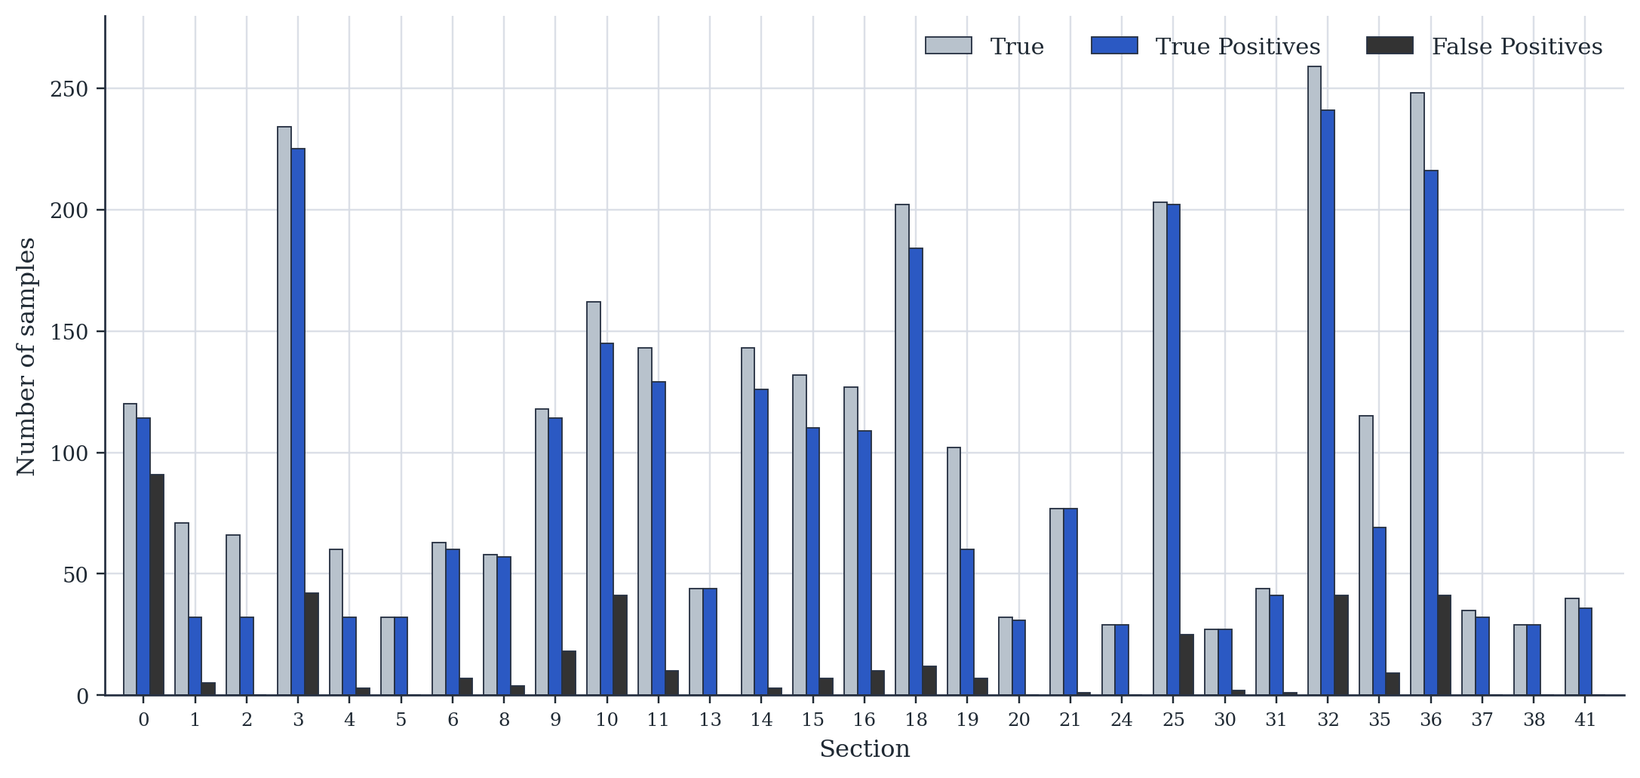
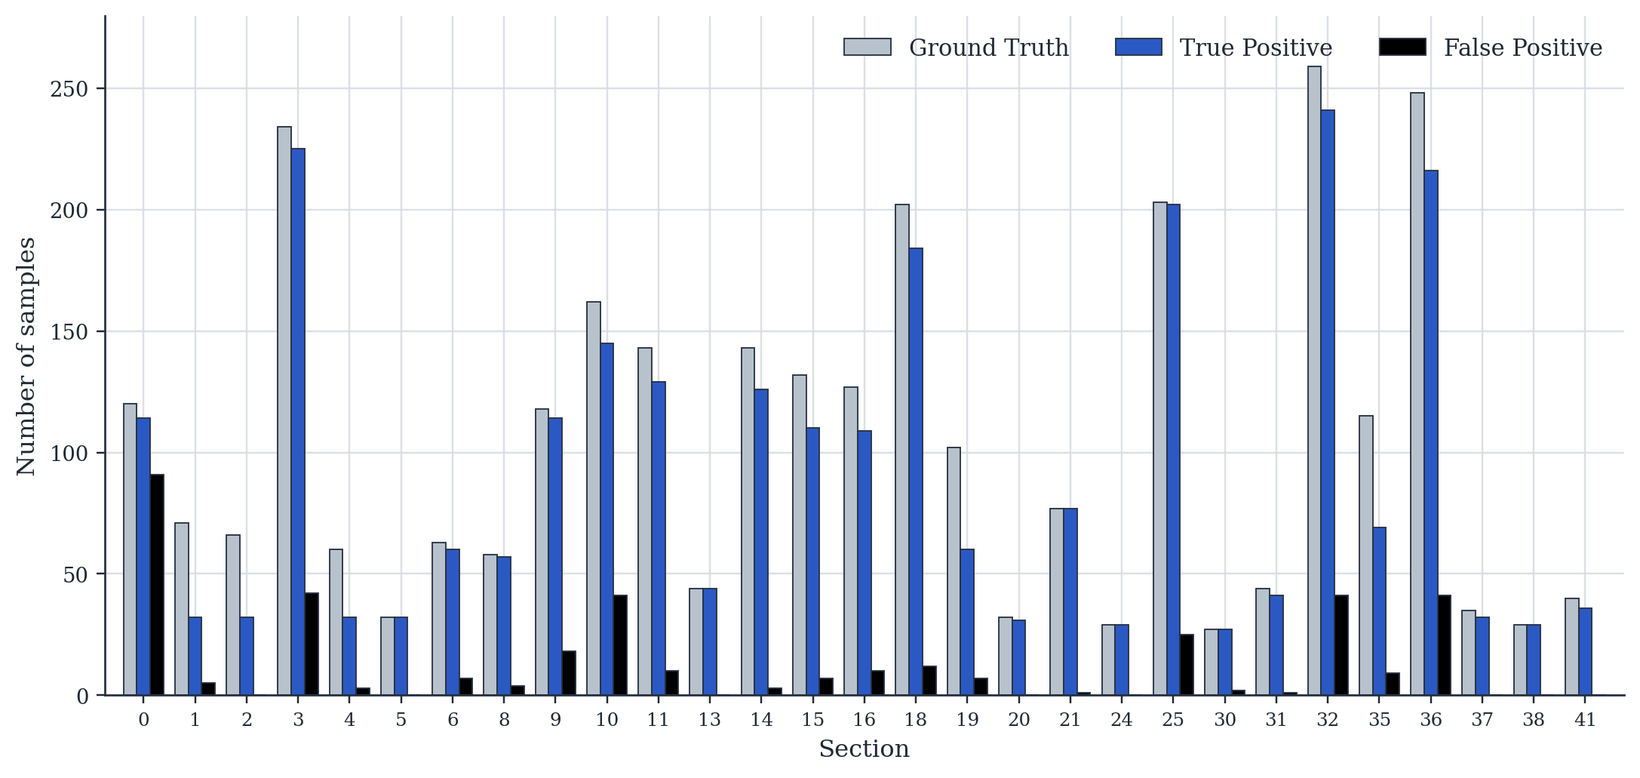
update for round 3

diff --git a/article/main.tex b/article/main.tex
@@ -95,10 +95,10 @@
 
 \Author{Ivan Plokhikh $^{1,2}$*\orcidA{},
 Dmitriy Pushkarev $^{2}$*,
-Oleg Gobyzov $^{1,3}$*\orcidC{},
+Oleg Gobyzov $^{1,3}$\orcidC{},
 Sergey Filimonov $^{1,3}$,
 Alexander Dekterev $^{1,3}$,
-Rustam Mullyadzhanov $^{2,3}$*\orcidB{} and
+Rustam Mullyadzhanov $^{2,3}$\orcidB{} and
 Sergey Alekseenko $^{1,3}$}
 
 %\longauthorlist{yes}
@@ -655,6 +655,27 @@ The dataset generation process produced the following samples for each temperatu
 When preparing the data for training, the full graph was split into supply and return subnets, resulting in 85,050 total samples: 42,075 with a defect in the considered subnet (49.5\%) and 42,975 without a defect (50.5\%) - the latter includes 42,075 samples from the opposite subnet plus 450 defect-free samples from each subnet. This balanced distribution between defective and non-defective samples was intentionally designed to ensure robust model training.
 % }
 
+
+\begin{table}[H]
+\centering
+\begin{tabularx}{0.8\textwidth}{lccc}
+\toprule
+\textbf{Outdoor temp.} & \textbf{Subnet} & \textbf{Max / Min / $\Delta$ (°C)} \\
+\midrule
+\multirow{2}{*}{-34°C} & Supply & 177.30 / 170.36 / 6.94 \\
+                       & Return & 129.07 / 125.93 / 3.14 \\
+\midrule
+\multirow{2}{*}{+10°C} & Supply & 64.45 / 63.94 / 0.51 \\
+                       & Return & 57.46 / 56.90 / 0.56 \\
+\bottomrule
+\end{tabularx}
+\caption{Supply and return water temperatures at the heat source for the minimum and maximum outdoor temperature scenarios.}\label{tab:temperatures}
+\end{table}
+
+\revision{
+The corresponding supply and return water temperatures at the heat source for the extreme scenarios are summarized in Table~\ref{tab:temperatures}. The temperature difference across the network is noticeably larger in the supply subnet than in the return subnet at lower outdoor temperatures, whereas at higher temperatures the thermal losses are less pronounced.
+}
+
 \subsection{Stage 2: Application to DHN Fault Localization}\label{stage2}
 
 % In Stage 1, to identify an architecture capable of effectively capturing data propagating from neighboring nodes, we conducted a series of experiments on synthetic data, framing the problem as edge-level regression. Having understood what a suitable GNN should look like, we moved on to fault localization in DHNs. Since the real-world graph data is extremely sparse, we reformulated the problem as multi-class classification. For this purpose, we modified the network by replacing the final regression layer with a classification head and adding a global pooling.
@@ -693,7 +714,7 @@ represented as a graph with 187 nodes (junctions, consumers, source/sink) and
 		\centering
 		\includegraphics[width=16.0 cm]{Figures/dhn_example.png}
 	\end{adjustwidth}
-	\caption{An illustration of the district heating network.\label{fig:dhn}}
+	\caption{An illustration of the district heating network. The scale bar corresponds to 50 m.\label{fig:dhn}}
 \end{figure}
 
 The following node features were used for model training:
@@ -918,9 +939,9 @@ horizontal line at distance 0 with value 1.0.
 	\caption{Distance confusion matrices: (\textbf{a}) Supply subnet. (\textbf{b}) Return subnet. \label{fig:dist_cm}}
 \end{figure}
 
-\revision{
-For segment 41, the value 1.0 at nonzero distance means that all 43 test samples belonging to this segment were assigned to another section. This makes segment 41 the main outlier in the topological-distance analysis. Segment 41 consists of a single pipe connecting a consumer to a branching node, resulting in fewer training examples compared to segments containing multiple pipes (N pipes x 225 defective samples per pipe). Since figure 5 aggregates errors only by topological distance, it indicates the local nature of the misclassifications but does not identify which classes are confused with each other. The corresponding ambiguity is therefore analyzed below using the class-distribution plots and confusion matrices.
-}
+% \revision{
+For segment 41, the value 1.0 at nonzero distance means that all 43 test samples belonging to this segment were assigned to another section. This makes segment 41 the main outlier in the topological-distance analysis. Segment 41 consists of a single pipe connecting a consumer to a branching node, resulting in fewer training examples compared to segments containing multiple pipes ($N$ pipes $\times$ 225 defective samples per pipe). Since Figure~\ref{fig:dist_cm} aggregates errors only by topological distance, it indicates the local nature of the misclassifications but does not identify which classes are confused with each other. The corresponding ambiguity is therefore analyzed below using the class-distribution plots and confusion matrices.
+% }
 
 Notably, the distribution of errors in Figure \ref{fig:dist_cm} demonstrates a
 strong bias towards local mistakes. We observe that the error mass is heavily
@@ -984,9 +1005,9 @@ To complement the hop-based analysis, we also evaluated the
 \end{figure}
 
 % \revision{
-The class-distribution panels in Figures~\ref{fig:supply_distribution_confusion} and~\ref{fig:return_distribution_confusion} show, for each network section, the number of true defect instances together with the counts of correctly and incorrectly predicted assignments. In these panels, ``True'' denotes the number of test
+The class-distribution panels in Figures~\ref{fig:supply_distribution_confusion} and~\ref{fig:return_distribution_confusion} show, for each network section, the number of true defect instances together with the counts of correctly and incorrectly predicted assignments. In these panels, ``Ground Truth'' denotes the number of test
 samples whose simulated defect is located in the corresponding section, while
-\revision{``True Positives''} and \revision{``False Positives''} denote correct and incorrect
+``True Positives'' and ``False Positives'' denote correct and incorrect
 predictions assigned to that section, respectively.
 Similar true and predicted counts can still hide
 compensating errors between neighbouring sections. Therefore, the distribution
@@ -995,36 +1016,31 @@ show the actual class-to-class error structure.
 % }
 
 % \revision{
-% The distribution of predicted classes and the corresponding confusion matrices
-% in Figures~\ref{fig:supply_distribution_confusion}
-% and~\ref{fig:return_distribution_confusion} support
-% the earlier observations. For the supply subnet, the main errors are
-% concentrated in the remote group of segments 32, 36, and 41, with segment 41
-% being the most problematic case; this confirms that the model has difficulty
-% separating weak fault signatures in the farthest part of the network. A
-% secondary supply-side ambiguity is observed for segment 35: defects in this
-% segment are sometimes assigned to the adjacent and larger segments 25 and 36,
-% which can produce similar aggregated hydraulic and thermal signatures while
-% also being represented by more training samples.
+The distribution of predicted classes and the corresponding confusion matrices in Figures~\ref{fig:supply_distribution_confusion} and~\ref{fig:return_distribution_confusion} provide more detailed information about the segment 41 outlier identified in Figures~\ref{fig:dist_cm} and~\ref{fig:metric_dist}. For the supply subnet, the main errors are concentrated in the local group of segments 32, 36, and 41, which are among the farthest supply-side segments from the heat source. As a result, the thermohydraulic signatures from these segments are attenuated, making defects in them less pronounced in the available observations. However, the outlier behaviour of segment 41 is not explained by distance from the heat source alone. Segments 37 and 38 are also remote, but their fault signatures remain distinguishable under the available sensor configuration.
+% }
 
-\revision{
-The distribution of predicted classes and the corresponding confusion matrices in Figures~\ref{fig:supply_distribution_confusion} and~\ref{fig:return_distribution_confusion} provide more detailed information about the segment 41 outlier identified in Figures~\ref{fig:dist_cm} and~\ref{fig:metric_dist}. For the supply subnet, the main errors are concentrated in the local group of segments 32, 36, and 41. These segments are among the most remote supply-side segments from the heat source. These segments are among the farthest supply-side segments from the heat source. As a result, the thermohydraulic signature from these segments is attentuated, making defects in them less pronounced in the available observations. However, the outlier behaviour of segment 41 is not explained by distance from the heat source alone. Segments 37 and 38 are also remote, but their fault signatures remain distinguishable under the available sensor configuration.}
+% \revision{
+A more specific explanation is the combination of attenuation, unequal class representation, and sparse observability. The dataset is generated uniformly at the pipe level, but after pipes are grouped into section labels, longer sections naturally contribute more defective samples than shorter sections. Thus, segment 41, which contains a single pipe, provides fewer training examples than segments 32 and 36, which include more pipes. In addition, segments 32, 36, and 41 form a T-shaped group that, in the supply subnet, is observed mainly through one downstream sensor at the end of segment 41. Faults in these neighbouring segments can therefore produce similar thermohydraulic signatures, causing the model to confuse them with each other.
+% }
 
-\revision{
-A more specific explanation is the combination of attenuation, unequal class representation, and sparse observability. As noted above, segment 41 is a single-pipe class, whereas segments 32 and 36 include more pipes and therefore provide more training examples. In addition, segments 32, 36, and 41 form a T-shaped group that, in the supply subnet, is observed mainly through one downstream sensor at the end of segment 41. Faults in these neighbouring segments can therefore produce similar thermohydraulic signatures, causing the model to confuse them with each other. A secondary supply-side ambiguity is also observed for segment 35, whose defects are sometimes assigned to the adjacent and larger segments 25 and 36. This follows the same general pattern of local confusion between neighbouring sections, but it is less pronounced than the segment 41 case.}
+% \revision{
+The asymmetry between the supply and return predictions for segment 41 further supports this interpretation. In the return subnet, the flow direction is reversed, and additional downstream sensor information is available along the return path. This makes disturbances originating in segments 32 and 36 more directly observable than in the supply subnet, where only the sensor at the end of segment 41 lies downstream of this group. This particular combination of segment grouping, flow direction, and sensor placement is specific to segment 41 within the considered network topology, which supports the proposed explanation for the errors observed in this segment. Thus, the segment 41 error may be interpreted as a localized ambiguity within the considered sparse monitoring scheme rather than a general model weakness.
+% }
 
-\revision{
-The asymmetry between the supply and return predictions for segment 41 further supports this interpretation. In the return subnet, the flow direction is reversed, and additional downstream sensor information is available along the return path. This makes disturbances originating in segments 32 and 36 more directly observable than in the supply subnet, where only the sensor at the end of segment 41 lies downstream of this group. This particular combination of segment grouping, flow direction, and sensor placement is specific to segment 41 within the considered network topology, which supports the proposed explanation for the errors observed in this segment. Thus, the segment 41 error may be interpreted as a localized ambiguity within the considered sparse monitoring scheme rather than a general model weakness.}
+% \revision{
+For the return subnet more broadly, the misclassifications are more diffuse and scattered across several classes. This pattern is consistent with the narrower range of dynamic temperature and pressure values in the return line, where class-specific fault signatures become less pronounced relative to background variability. In particular, segment 0 is a long terminal section composed of five pipes and is often assigned when the true defect is located in the shorter neighbouring segments 1, 2, or 4. This effect is much weaker in the supply subnet, where stronger thermal and hydraulic gradients and additional downstream consumer measurements make the corresponding signatures more separable.
+% }
 
-\revision{
-For the return subnet more broadly, the misclassifications are more diffuse and scattered across several classes. This pattern is consistent with the narrower range of dynamic temperature and pressure values in the return line, where class-specific fault signatures become less pronounced relative to background variability. In particular, return-subnet segment 0 is often confused with nearby segments 1, 2, and 4. This segment is located close to the return-side boundary node, where the heat carrier has already passed through the network and the thermal and hydraulic responses are smoother. In addition, segment 0 contains several long pipes, so disturbances originating in adjacent sections can produce similar aggregate signatures and be assigned to this segment.}
+% \revision{
+Other local return-side ambiguities follow the same pattern but are less severe. Segment 35 contains three pipes and is sometimes confused with larger adjacent sections, namely segment 25 downstream and segment 36 nearby, whereas segments 25 and 36 themselves are recognized more reliably, with only minor misassignments to neighbouring classes. Segment 19 is also occasionally assigned to downstream segment 10, while segment 10 remains mostly distinguishable with only small local confusions. In the supply subnet, the confusion between segments 30 and 31 is limited; these sections are located near two consumer branches, so the available measurements provide more information for separating their fault signatures.
+% }
 
-\revision{
-The observed error pattern may also be informative from a monitoring design perspective. The high overall accuracy and local structure of the errors indicate that useful localization can be achieved with a limited set of suitably placed sensors, which is consistent with the optimal sensor placement concept discussed by Rosich et al. ~\cite{rosich2012optimal}. At the same time, the largest localization errors measured along the pipe network are concentrated in the same local region where the confusion matrices indicate ambiguity between sections 32, 36, and 41. This suggests that the present sensor layout provides insufficient observability for this particular T-shaped group. The junction connecting these sections is therefore a natural candidate location for an additional measurement point.}
+% \revision{
+The observed error pattern may also be informative from a monitoring design perspective. The high overall accuracy and local structure of the errors indicate that useful localization can be achieved with a limited set of suitably placed sensors, which is consistent with the optimal sensor placement concept discussed by Rosich et al.~\cite{rosich2012optimal}. In the present experiments, nonzero pressure and temperature measurements were retained only at the heat-source supply/return boundary nodes and at consumer connection nodes. At the same time, the largest localization errors measured along the pipe network are concentrated in the same local region where the confusion matrices indicate ambiguity between sections 32, 36, and 41. This suggests that the present sensor layout provides insufficient observability for this particular T-shaped group. Therefore, pipe-junction nodes incident to these sections are natural candidate locations for additional measurement points.
+% }
 
-\revision{
-More generally, a calibrated thermohydraulic model and a trained fault localization model can be used as a heuristic approach for sparse sensor augmentation. Since simulated states are available for the full network before sensor masking, candidate sensor layouts can be emulated by retaining measurements only at selected nodes. These layouts can then be compared by checking whether recurring confusions between neighbouring sections decrease. If the same local group of sections remains difficult to separate, it can be treated as insufficiently observable and considered for the placement of additional sensors. This procedure does not replace formal optimal sensor placement, but it can provide a simulation-based supporting tool for testing candidate layouts and selecting promising sensor locations under limits on the number of sensors.
-}
+% \revision{
+More generally, a calibrated thermohydraulic model and a trained fault localization model can be used as a heuristic approach for sparse sensor augmentation. Since simulated states are available for the full network before sensor masking, candidate sensor layouts can be emulated by retaining measurements only at selected nodes, including intermediate junction nodes that are not instrumented in the current sparse layout. These layouts can then be compared by checking whether recurring confusions between neighbouring sections decrease. If the same local group of sections remains difficult to separate, it can be treated as insufficiently observable and considered for the placement of additional sensors. This procedure does not replace formal optimal sensor placement, but it can provide a simulation-based supporting tool for testing candidate layouts and selecting promising sensor locations under limits on the number of sensors.
 % }
 
 \subsection{Ablation Studies}
@@ -1128,9 +1144,9 @@ respectively. These metrics were obtained under sparse sensor coverage (only 30
 of 187 nodes contained non-zero thermal and pressure features), simulating
 realistic, data-limited conditions. The ablation studies further confirmed that
 the attention mechanism and network depth are critical factors for performance.
-\revision{
+% \revision{
 The distance confusion matrix reveals that most errors are localized within a topological distance of 1-2 sections from the actual defect, indicating that the model captures the attenuation of hydraulic and thermal disturbances along the network topology while still exhibiting local ambiguities in poorly observed regions.
-}
+% }
 % \revision{
 
 The current thermohydraulic model is a simplified representation of a real district heating network. It does not include shut-off and control valves (e.g., gate valves, check valves, bypasses), intermediate switching states, or gradual pipe degradation. These factors will be incorporated in future work to reduce the simulation-to-reality gap.
@@ -1153,9 +1169,9 @@ sparse SCADA-like pressure and temperature measurements together with network
 topology to narrow the inspection area.
 % }
 
-\revision{
+% \revision{
 The error analysis also suggests an additional use of the proposed framework for sensor-layout assessment. Although most misclassifications remain topologically local, the recurring confusion between sections 32, 36, and 41 indicates a local observability limitation under the current sparse monitoring scheme. Such persistent confusion patterns can help identify candidate locations for additional sensors and provide a simulation-based approach for future sensor-placement studies.
-}
+% }
 
 However, we recognize that the most significant challenge remains the
 acquisition of high-quality, labeled data to support such data-driven

diff --git a/article/review_round2/answer.md b/article/review_round2/answer.md
@@ -4,16 +4,16 @@ We thank you again for your thoughtful and constructive comments. We have carefu
 
 Comment 1: The authors have correctly specified the location of the district, but it would be more helpful to understand the lengths of the pipes and the distances considered. At a minimum, a scale should be included in Figure 2. This would clarify the subsequent graphs and the comments in the results section. 
 
-Response 1: We agree with the comment. We have replaced Figure 2.
+Response 1: We thank the Reviewer for this helpful suggestion. We revised Figure 2 to improve its readability and added a 50 m scale bar. The updated figure now makes the approximate spatial scale of the modeled DHN clearer, which supports the interpretation of the metric-distance error analysis presented later in the Results and Discussion section. (Figure 2)
 
 Comment 2: I would like to express my gratitude to the authors for including Figure 6, as it serves to enhance the clarity of the presentation of the results. I agree with the authors' reasoning regarding the supply-side error caused by the drop in temperature due to sections 41, 32 and 36 being far from the heating plant. However, this would not explain why the model predicts sections 37 and 38 well. Graphically, it appears that section 36 is at 19 hops, whereas sections 37 and 38 are at approximately 17 hops. While I noticed that some explanations follow Figure 8, Figures 5 and 6 require clearer explanation, as they risk making the model appear weak. Alternatively, I suggest that the authors conduct further analyses to see if they can improve the model further.
 
-Response 2: We thank the reviewer for this insightful observation. In the revised manuscript, we offer a more detailed analysis of the errors affecting segment 41 and discuss why segments 37 and 38 do not appear to suffer from similar confusion. The explanation, presented in the Results and Discussion section, is that segments 32, 36, and 41 share a single downstream sensor (the node incident to both the consumer edge and the pipe edge of segment 41). We suggest that this topology may create an ambiguity that does not arise for the subgraph containing segments 37-38. (lines 472-485)
+Response 2: We thank the Reviewer for this important observation. We agree that distance from the heat source alone is not sufficient to explain the observed errors. In the revised manuscript, we expanded the Results and Discussion section to clarify how Figures 5--8 should be interpreted. We now explain that Figure 5 shows only the topological-distance structure of errors, while the specific class pairs should be analyzed using the class-distribution plots and normalized confusion matrices. The revised text discusses segment 41 as a local observability issue caused by the combination of signal attenuation, sparse sensor placement, and unequal section-level representation after pipe grouping; it also explains why other remote segments, such as 37 and 38, can remain distinguishable. We further added a brief discussion of other local ambiguities in both subnets and clarified that these patterns indicate limitations of the current sparse monitoring layout rather than a general weakness of the model. (lines 426-434, lines 453-528, Figures 5-8)
 
 Comment 3: Regarding the new Figures 7 and 8, I thank the authors for the added comment and for including the normalized confusion matrix. However, in these figures, rather than "Predicted wrong," the label in the legend should be called "False positives assigned to this section."
 
-Response 3: We have corrected the legend in Figures 7 and 8. The label "Predicted Wrong" has been replaced with "False Positives" as requested.
+Response 3: We revised the legends in Figures 7 and 8 and the corresponding explanatory text in the manuscript. The previous labels "True", "Predicted Right", and "Predicted Wrong" have been replaced with "Ground Truth", "True Positives", and "False Positives", respectively, so that the terminology is clearer and consistent with the interpretation of the class-distribution panels. (lines 453-460, Figures 7 and 8)
 
 Comment 4: The conclusions do not address the observed limitations. While it is true that many errors occur within a limited topological distance, errors on the order of hundreds of metres often occur too. I suggest briefly mentioning the analysis related to the distance of the errors. Furthermore, the issue of accuracy could be emphasised by discussing how this information could be used to determine where to place additional monitoring sensors in a DHN.
 
-Response 4: We have extended the Conclusions. A new paragraph have been added that connects analysis of errors in segments 32, 36, 41 (where the largest metric errors tend to concentrate) to the assumption that adding one pressure sensor at the junctions of these segments may eliminate most of occuring missclassifications. This idea is further linked to the optimal sensor placement framework proposed by Rosich et al., suggesting that the confusion patterns revealed by our GNN can serve as a data-driven prior for identifying critical locations where additional sensors would be most beneficial. (lines 553-560)
+Response 4: We agree with the Reviewer. We revised the Results and Discussion section and the Conclusions to explicitly acknowledge that, although most errors are local in topological distance, the metric-distance analysis still reveals larger physical-distance errors in poorly observed regions. We also added a discussion of how these persistent confusion patterns can be used for sensor-layout assessment. In particular, we clarified that the current sparse layout retains pressure and temperature measurements only at the heat-source supply/return boundary nodes and at consumer connection nodes. Therefore, the recurring ambiguity between sections 32, 36, and 41 suggests a local observability limitation and identifies the incident pipe-junction nodes, especially branching junctions, as natural candidate locations for additional measurements. We present this as a direction for future sensor-placement studies, consistent with the optimal sensor-placement framework discussed by Rosich et al., rather than as a definitive claim that one additional sensor would eliminate all errors. (lines 506-528, lines 568-592)
